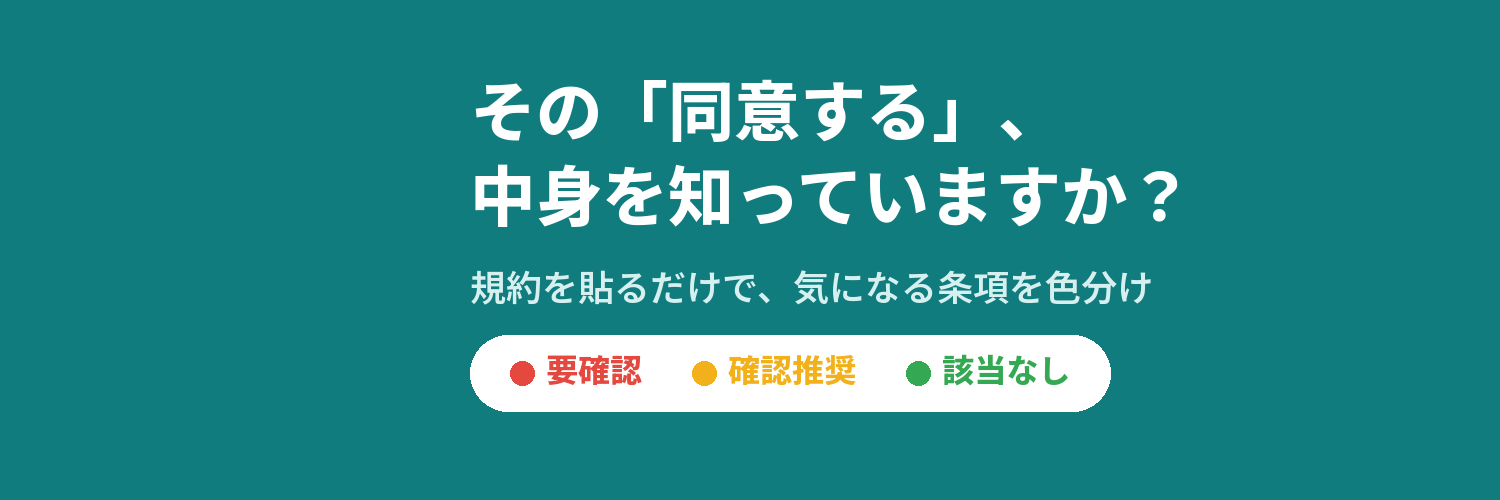
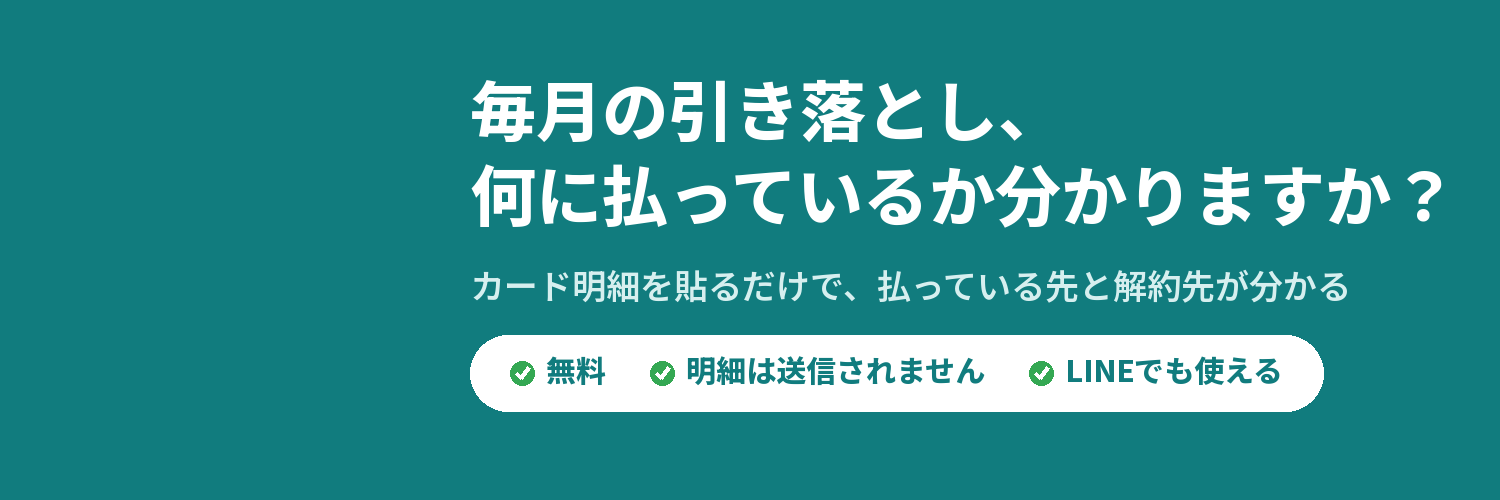
Xのヘッダー画像を「毎月の引き落とし」中心に作り直し

diff --git a/tools/make_x_header.py b/tools/make_x_header.py
@@ -26,21 +26,22 @@ img = Image.new("RGB", (W, H), BG)
 d = ImageDraw.Draw(img)
 
 big = font(66, 800)
-d.text((LEFT, 70), "その「同意する」、", font=big, fill=WHITE)
-d.text((LEFT, 155), "中身を知っていますか？", font=big, fill=WHITE)
+d.text((LEFT, 70), "毎月の引き落とし、", font=big, fill=WHITE)
+d.text((LEFT, 155), "何に払っているか分かりますか？", font=big, fill=WHITE)
 
-d.text((LEFT, 265), "規約を貼るだけで、気になる条項を色分け", font=font(36, 600), fill=SUB)
+d.text((LEFT, 265), "カード明細を貼るだけで、払っている先と解約先が分かる", font=font(34, 600), fill=SUB)
 
-# 色分けの見本（白い帯の中に3色。帯の幅は中身に合わせる）
+# 安心ポイント（白い帯の中に3つ。帯の幅は中身に合わせる）
 y = 335
-lab = font(32, 800)
-items = [(RED, "要確認"), (YELLOW, "確認推奨"), (GREEN, "該当なし")]
-width = 40 + sum(36 + d.textlength(t, font=lab) for _, t in items) + 50 * 2 + 40
+lab = font(30, 800)
+items = ["無料", "明細は送信されません", "LINEでも使える"]
+width = 40 + sum(36 + d.textlength(t, font=lab) for t in items) + 44 * 2 + 40
 d.rounded_rectangle((LEFT, y, LEFT + width, y + 76), radius=38, fill=WHITE)
 x = LEFT + 40
-for color, text in items:
-    d.ellipse((x, y + 26, x + 24, y + 50), fill=color)
-    d.text((x + 36, y + 15), text, font=lab, fill=color)
-    x += 36 + d.textlength(text, font=lab) + 50
+for text in items:
+    d.ellipse((x, y + 26, x + 24, y + 50), fill=GREEN)
+    d.line((x + 6, y + 38, x + 11, y + 43, x + 19, y + 32), fill=WHITE, width=4)
+    d.text((x + 36, y + 17), text, font=lab, fill=BG)
+    x += 36 + d.textlength(text, font=lab) + 44
 
 img.save(sys.argv[1])
